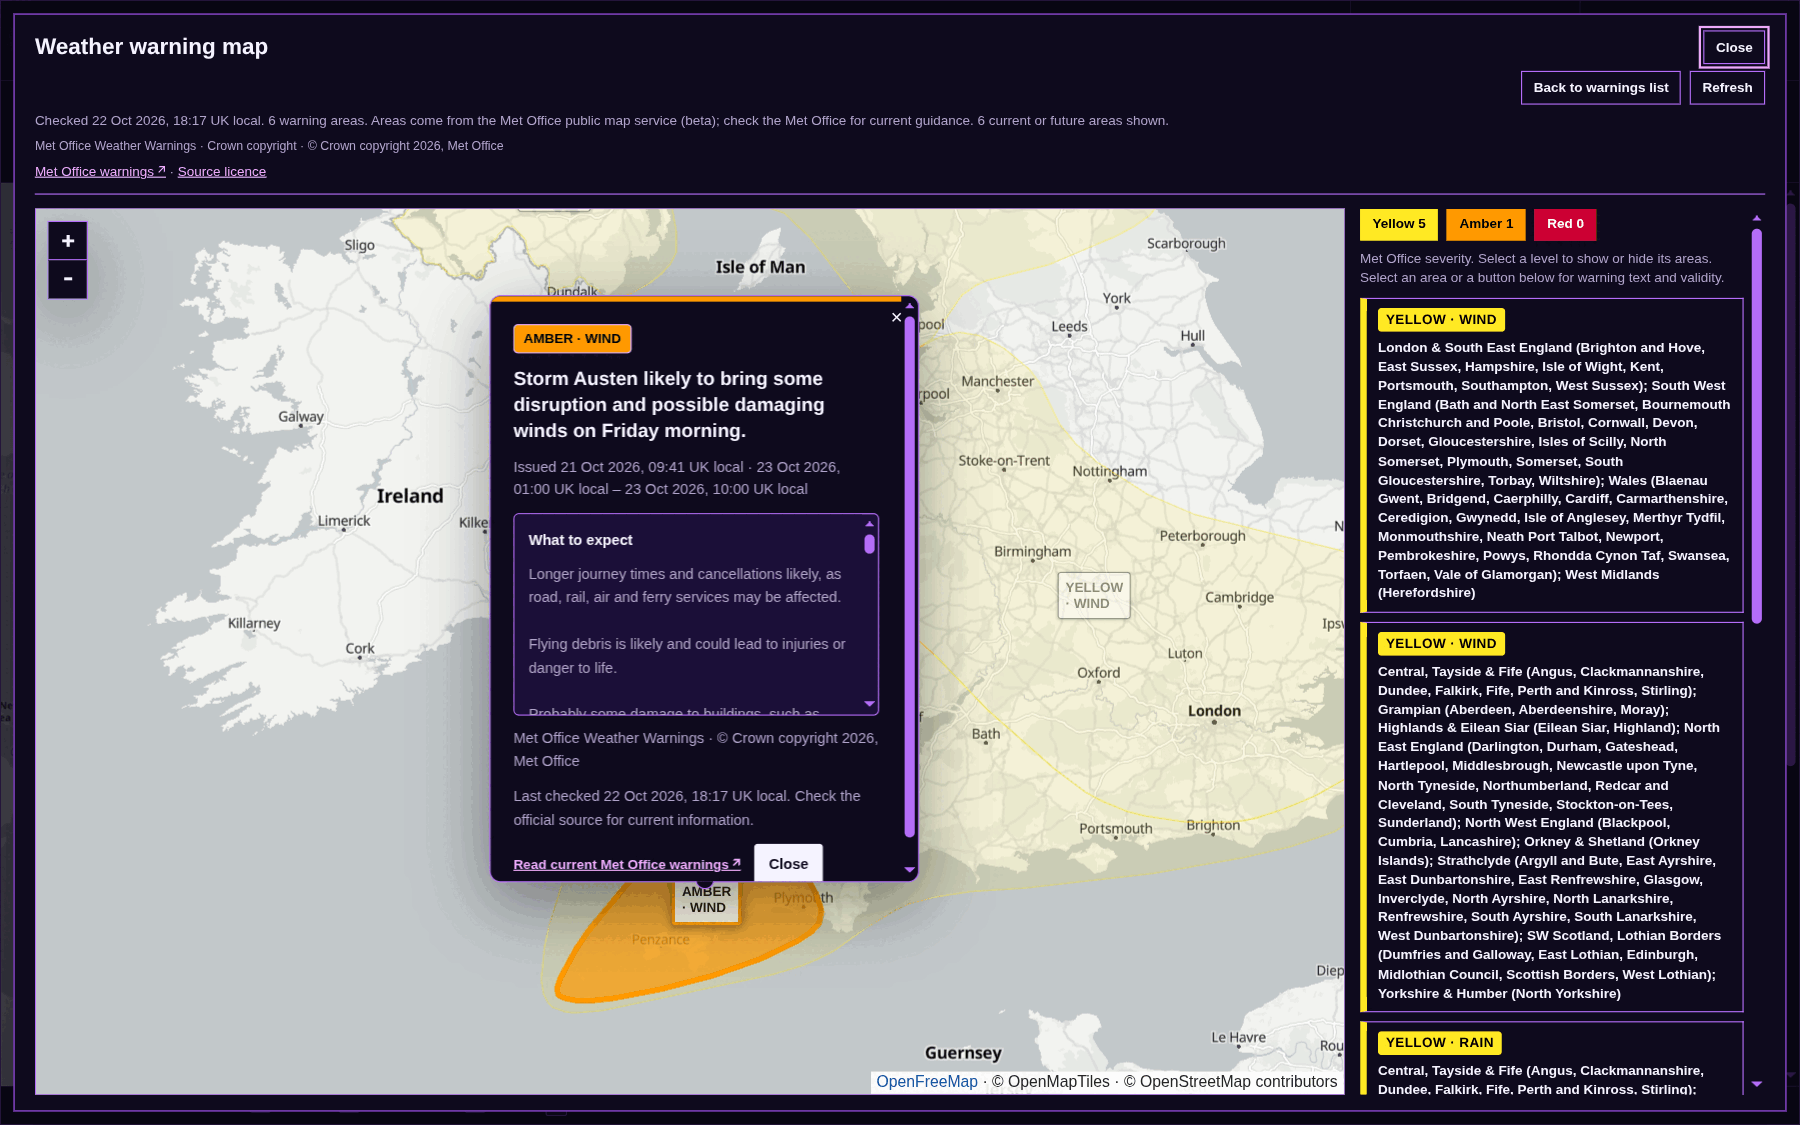
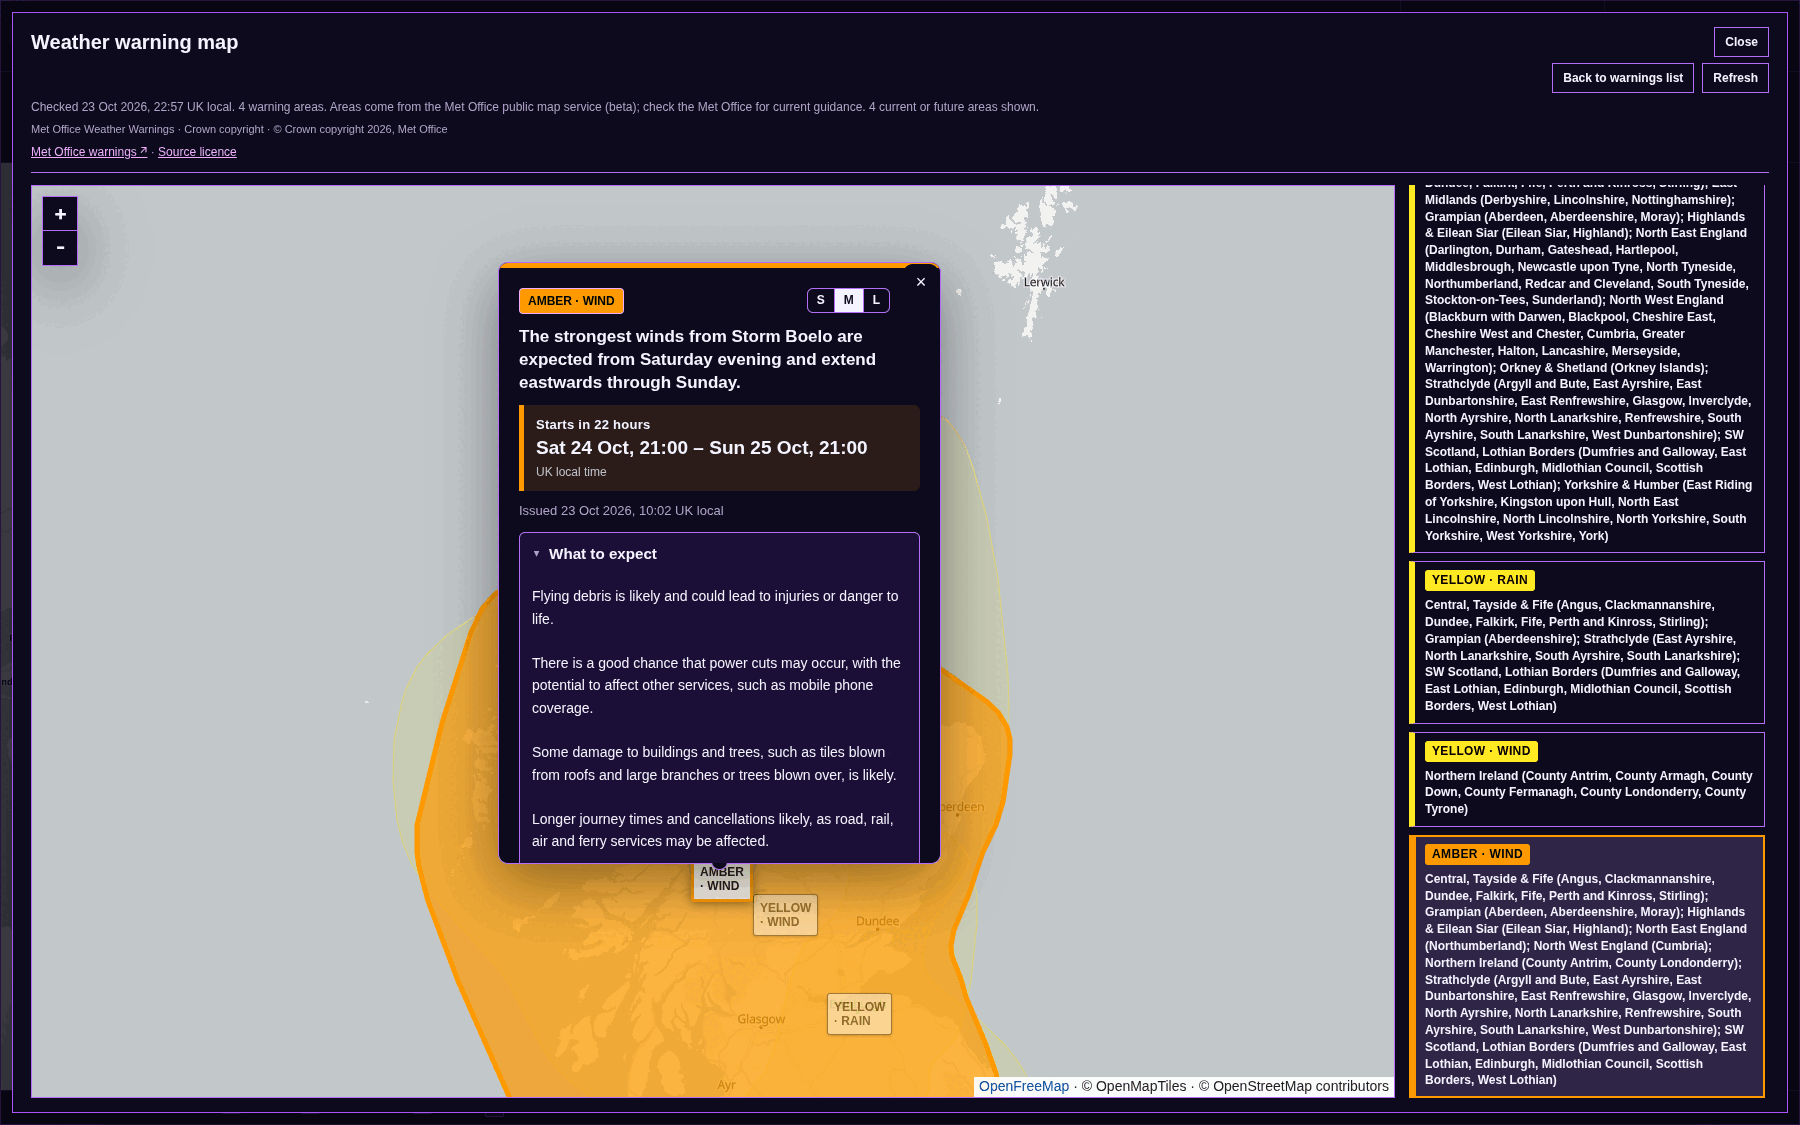
Make warning popups sizeable and easier to read (1.16.0) (#35)
Warning-map popups gain S, M and L size buttons. The choice applies to
every warning popup, resizes an open popup in place and is remembered.
The popup is now the only scroll area: "What to expect" (open) and
"Further details" (folded) are collapsible sections split into
paragraphs, replacing the small scroll box inside the scrolling popup.

README and warnings-guide screenshots are retaken: the warning map with
the new popup on the amber Storm Boelo warning, and Appearance showing
the light or dark choice.

diff --git a/client/warning-map.js b/client/warning-map.js
@@ -37,13 +37,32 @@
     let map=null,layer=null,timer=null,signature='',updates=[],highlighted=null,pinned=null,pending=null;const levels=new Set(Object.keys(colours));const features=new Map();
     const source=C.getSource(ID),ctrl=new globalThis.StormtraceWarnings.WarningController({id:ID,endpoint:'/api/hazards?source='+ID,interval:source.expectedUpdateInterval,validate:valid,onChange:render});
     $('warningMapAttribution').textContent=source.attribution;
+    // Popup size is the viewer's choice and is remembered. Content scrolls in one place:
+    // the popup itself, with collapsible sections rather than a scroll box inside it.
+    const SIZES={small:{label:'S',name:'Small',width:320},medium:{label:'M',name:'Medium',width:440},large:{label:'L',name:'Large',width:620}},SIZE_KEY='stormtrace:warning-popup-size',sizeButtons=new Set();
+    const storage=()=>globalThis.StormtracePlatform?.settingsStorage;
+    let popupSize=(()=>{try{const v=storage()?.getItem(SIZE_KEY);return Object.hasOwn(SIZES,v)?v:'medium';}catch{return 'medium';}})();
+    function sizeOptions(){const width=SIZES[popupSize].width;return {minWidth:width,maxWidth:width};}
+    function applySize(popup){if(!popup)return;Object.assign(popup.options,sizeOptions());const el=popup.getElement?.();if(el)el.dataset.size=popupSize;if(popup.isOpen?.())popup.update();}
+    function setPopupSize(size){
+      if(!Object.hasOwn(SIZES,size))return;popupSize=size;try{storage()?.setItem(SIZE_KEY,size);}catch{/* the choice still applies this session */}
+      for(const button of sizeButtons)button.setAttribute('aria-pressed',String(button.dataset.popupSize===size));
+      for(const [,geo] of features)applySize(geo.getPopup?.());
+    }
+    function section(parent,title,value,open){
+      const d=document.createElement('details');d.className='warning-popup-section';d.open=open;parent.append(d);
+      UI.text(d,'summary',title);for(const part of String(value||'').split(/\n\s*\n/).map(s=>s.trim()).filter(Boolean))UI.text(d,'p',part);return d;
+    }
     function popup(r) {
       const p=r.domainPayload,n=document.createElement('section');n.className='flood-map-card warning-area-card';n.style.borderTopColor=colours[p.badge];
-      const badge=UI.text(n,'span',p.badge+' · '+p.title,'flood-map-badge');badge.style.background=colours[p.badge];badge.style.color=p.badge==='RED'?'#fff':'#000';
+      const head=UI.text(n,'div','','warning-popup-head');
+      const badge=UI.text(head,'span',p.badge+' · '+p.title,'flood-map-badge');badge.style.background=colours[p.badge];badge.style.color=p.badge==='RED'?'#fff':'#000';
+      const sizes=UI.text(head,'div','','warning-popup-size');sizes.setAttribute('role','group');sizes.setAttribute('aria-label','Popup size');
+      for(const [key,size] of Object.entries(SIZES)){const b=UI.text(sizes,'button',size.label,'');b.type='button';b.dataset.popupSize=key;b.title=size.name+' popup';b.setAttribute('aria-label',size.name+' popup');b.setAttribute('aria-pressed',String(key===popupSize));b.addEventListener('click',()=>setPopupSize(key));sizeButtons.add(b);}
       // NSWWS presentation requires UK-local times regardless of the viewer's time preference.
       UI.text(n,'h3',p.headline,'flood-map-title');UI.validity(n,r.validFrom,r.validTo,ctrl.now()).style.setProperty('--warning-colour',colours[p.badge]);UI.text(n,'p',`Issued ${UI.fixedUkDate(r.observedAt)}`,'flood-map-time');
-      const body=UI.text(n,'div','','flood-map-message');body.tabIndex=0;
-      UI.text(body,'h4','What to expect');UI.text(body,'p',p.whatToExpect);UI.text(body,'h4','Further details');UI.text(body,'p',p.body);for(const d of p.details)UI.text(body,'p',d);
+      section(n,'What to expect',p.whatToExpect,true);
+      const more=section(n,'Further details',p.body,false);for(const d of p.details)UI.text(more,'p',d);
       UI.text(n,'p',`Met Office Weather Warnings · © Crown copyright ${new Date(r.observedAt).getUTCFullYear()}, Met Office`,'flood-map-attribution');updates.push(UI.popupHealth(n,ctrl.state.health,ctrl.state.cached,UI.fixedUkDate));
       const link=UI.text(n,'a','Read current Met Office warnings ↗','flood-map-link');link.href=p.url;link.target='_blank';link.rel='noopener noreferrer';
       const close=UI.text(n,'button','Close','mini-button');close.type='button';close.addEventListener('click',()=>map.closePopup());return n;
@@ -82,7 +101,7 @@
       if(!map)return;
       if(next===signature){focusPending(target,s);return;}
       signature=next;updates=[];features.clear();layer.clearLayers();
-      for(const r of records){const p=r.domainPayload,geo=globalThis.L.geoJSON(r.geometry,{style:{color:colours[p.badge],fillColor:colours[p.badge],fillOpacity:.4,weight:2}});geo.bindTooltip(p.badge+' · '+p.title,{permanent:true,direction:'center',className:'warning-area-label'});geo.bindPopup(popup(r),UI.popupOptions({minWidth:260}));geo.on('mouseover',()=>highlight(r.id)).on('mouseout',()=>highlight(null)).on('popupclose',()=>{if(pinned===r.id){pinned=null;highlight(null);}});layer.addLayer(geo);features.set(r.id,geo);}
+      for(const r of records){const p=r.domainPayload,geo=globalThis.L.geoJSON(r.geometry,{style:{color:colours[p.badge],fillColor:colours[p.badge],fillOpacity:.4,weight:2}});geo.bindTooltip(p.badge+' · '+p.title,{permanent:true,direction:'center',className:'warning-area-label'});geo.bindPopup(popup(r),UI.popupOptions({className:'hazard-popup flood-map-popup warning-area-popup',...sizeOptions()}));geo.on('popupopen',e=>applySize(e.popup));geo.on('mouseover',()=>highlight(r.id)).on('mouseout',()=>highlight(null)).on('popupclose',()=>{if(pinned===r.id){pinned=null;highlight(null);}});layer.addLayer(geo);features.set(r.id,geo);}
       UI.keyed($('warningMapList'),records,(parent,r)=>{
         const p=r.domainPayload,button=UI.text(parent,'button','','mini-button warning-area-button');button.type='button';button.dataset.warningId=r.id;button.style.setProperty('--warning-colour',colours[p.badge]);
         const badge=UI.text(button,'span',p.badge+' · '+p.title,'warning-area-badge');badge.style.background=colours[p.badge];badge.style.color=p.badge==='RED'?'#fff':'#000';

diff --git a/tests/warning-map.test.js b/tests/warning-map.test.js
@@ -34,7 +34,9 @@ test('warning list entries carry official colours, highlight their map area and 
   const records = [warning('y', 'YELLOW', square(-6, 49, -2, 52)), warning('r', 'RED', square(-5, 50, -3, 51))];
   const areas = [];
   const chips = ['YELLOW', 'AMBER', 'RED'].map((level) => { const chip = new Element('button'); chip.className = 'severity-chip'; chip.dataset.level = level; get('warningMapDialog').append(chip); return chip; });
-  const old = { document: globalThis.document, fetch: globalThis.fetch, L: globalThis.L };
+  const old = { document: globalThis.document, fetch: globalThis.fetch, L: globalThis.L, StormtracePlatform: globalThis.StormtracePlatform };
+  const stored = new Map([['stormtrace:warning-popup-size', 'small']]);
+  globalThis.StormtracePlatform = { settingsStorage: { getItem: (k) => stored.get(k) ?? null, setItem: (k, v) => stored.set(k, v) } };
   t.after(() => Object.assign(globalThis, old));
   globalThis.document = { hidden: false, getElementById: get, createElement: (tag) => new Element(tag), addEventListener() {} };
   globalThis.fetch = async function () { return { ok: true, json: async () => ({ configured: true, records, observations: [], health: { ...C.health(300000), available: true, lastSuccessfulFetch: now } }) }; };
@@ -47,7 +49,8 @@ test('warning list entries carry official colours, highlight their map area and 
     geoJSON(geometry, { style }) {
       const label = new Element(); label.rect = { left: 0, right: 120, top: 0, bottom: 24 };
       const area = { geometry, popupOpen: false, getBounds: () => geometry.coordinates[0], openPopup() { this.popupOpen = true; }, style: { ...style }, options: { style }, label, front: 0, events: {}, setStyle(next) { Object.assign(this.style, next); }, bringToFront() { this.front++; }, getTooltip: () => ({ getElement: () => label }),
-        bindTooltip() { return this; }, bindPopup() { return this; }, on(name, fn) { this.events[name] = fn; return this; } };
+        bindTooltip() { return this; }, bindPopup(node, options) { this.popupNode = node; this.popup = { options: { ...options }, updates: 0, element: { dataset: {} }, open: false, isOpen() { return this.open; }, update() { this.updates++; }, getElement() { return this.element; } }; return this; },
+        getPopup() { return this.popup; }, on(name, fn) { this.events[name] = fn; return this; } };
       areas.push(area); return area;
     },
   };
@@ -64,6 +67,21 @@ test('warning list entries carry official colours, highlight their map area and 
   assert.equal(buttons[1].children[1].textContent, 'Kent');
 
   const [yellow, red] = areas;
+  // One scroll area: collapsible sections instead of a scroll box, with the remembered size.
+  const all = (node, out = []) => { for (const c of node.children || []) { out.push(c); all(c, out); } return out; };
+  const nodes = all(red.popupNode), sections = nodes.filter((c) => c.tag === 'details');
+  assert.deepEqual(sections.map((d) => [d.children[0].textContent, d.open]), [['What to expect', true], ['Further details', false]]);
+  assert.ok(!nodes.some((c) => c.className === 'flood-map-message'), 'no nested scroll box');
+  assert.deepEqual([red.popup.options.minWidth, red.popup.options.maxWidth], [320, 320]);
+  red.events.popupopen({ popup: red.popup }); assert.equal(red.popup.element.dataset.size, 'small');
+  const large = nodes.find((c) => c.dataset?.popupSize === 'large');
+  assert.equal(large.attributes['aria-label'], 'Large popup');
+  red.popup.open = true; large.fire('click');
+  assert.equal(stored.get('stormtrace:warning-popup-size'), 'large');
+  assert.deepEqual([red.popup.options.maxWidth, yellow.popup.options.maxWidth], [620, 620], 'every warning popup follows the choice');
+  assert.equal(red.popup.updates, 1, 'an open popup resizes in place'); assert.equal(yellow.popup.updates, 0);
+  assert.equal(large.attributes['aria-pressed'], 'true');
+  assert.equal(all(yellow.popupNode).find((c) => c.dataset?.popupSize === 'small').attributes['aria-pressed'], 'false');
   // Overlapping centre labels: the most severe shows, the focused one wins while emphasised.
   assert.ok(yellow.label.classes.has('collided')); assert.ok(!red.label.classes.has('collided'));
   buttons[0].fire('mouseenter');

diff --git a/styles.css b/styles.css
@@ -488,8 +488,23 @@ dialog > .hazard-dialog-card { width: 100%; height: 100%; max-height: none; padd
 #warningAreaMap .leaflet-control-zoom { border: 1px solid var(--popup-line); border-radius: 0; box-shadow: var(--shadow); }
 #warningAreaMap .leaflet-control-zoom a { width: 34px; height: 34px; line-height: 34px; border-radius: 0; background: var(--popup-bg); color: var(--popup-text); border-color: var(--popup-line); }
 #warningAreaMap .leaflet-control-zoom a:hover { background: var(--popup-surface); }
-#warningAreaMap .leaflet-popup-content { max-width: min(380px, calc(100vw - 92px)); }
-.warning-area-card .flood-map-message { max-height: min(180px, 22vh); }
+#warningAreaMap .leaflet-popup-content { max-width: calc(100vw - 92px); }
+/* Warning popups: the viewer picks Small, Medium or Large; the popup is the only scroll area. */
+#warningAreaMap .leaflet-popup[data-size="small"] .leaflet-popup-content { max-height: min(360px, calc(100dvh - 300px)); }
+#warningAreaMap .leaflet-popup[data-size="medium"] .leaflet-popup-content { max-height: min(600px, calc(100dvh - 260px)); }
+#warningAreaMap .leaflet-popup[data-size="large"] .leaflet-popup-content { max-height: calc(100dvh - 200px); }
+.warning-popup-head { display: flex; align-items: center; justify-content: space-between; gap: 10px; margin-right: 30px; }
+.warning-popup-size { display: inline-flex; border: 1px solid var(--popup-line); border-radius: 6px; overflow: hidden; }
+.hazard-popup .warning-popup-size button { padding: 3px 9px; border: 0; border-radius: 0; background: transparent; color: var(--popup-text); font-size: 12px; font-weight: 700; }
+.hazard-popup .warning-popup-size button + button { border-left: 1px solid var(--popup-line); }
+.hazard-popup .warning-popup-size button[aria-pressed="true"] { background: var(--popup-text); color: var(--popup-bg); }
+.warning-popup-section { margin: 10px 0; border: 1px solid var(--popup-line); border-radius: 6px; background: var(--popup-surface); }
+.warning-popup-section > summary { display: flex; align-items: center; gap: 8px; padding: 10px 12px; cursor: pointer; font-weight: 700; color: var(--popup-text); list-style: none; }
+.warning-popup-section > summary::-webkit-details-marker { display: none; }
+.warning-popup-section > summary::before { content: "▸"; color: var(--popup-muted); }
+.warning-popup-section[open] > summary::before { content: "▾"; }
+.warning-popup-section > summary:hover { background: color-mix(in srgb, var(--popup-text) 6%, transparent); }
+.warning-popup-section > p { margin: 0; padding: 0 12px 12px; color: var(--popup-text); font-size: calc(14px * var(--reading-scale)); line-height: 1.6; }
 #warningAreaMap .leaflet-control-attribution { background: rgba(255,255,255,.92); color: #222; }
 #warningAreaMap .leaflet-control-attribution a { color: #0b4f9e; }
 .warning-area-label { background: #fff; color: #111; border: 1px solid #333; font: 600 12px system-ui, sans-serif; white-space: normal; }
@@ -509,8 +524,6 @@ dialog > .hazard-dialog-card { width: 100%; height: 100%; max-height: none; padd
 .warning-area-button { display: grid; gap: 6px; border-left: 6px solid var(--warning-colour); }
 .warning-area-button.active { border-color: var(--warning-colour); background: var(--surface-3); box-shadow: inset 0 0 0 1px var(--warning-colour); }
 .warning-area-badge { justify-self: start; padding: 2px 7px; border-radius: 3px; font-weight: 800; letter-spacing: .03em; }
-.warning-area-card .flood-map-message { max-height: min(180px, 30vh); }
-.warning-area-card .flood-map-message h4 { margin: 0 0 6px; font-size: 13px; }
 
 /* About, shortcuts and appearance dialogs. */
 .about-dialog-card { width: min(480px, calc(100vw - 32px)); gap: 12px; }

diff --git a/docs/warnings.md b/docs/warnings.md
@@ -61,9 +61,9 @@ This is not a complete archive. The Met Office keeps change records for about 24
 
 Choose **Warning map** inside Weather warnings to see current warning areas on a dedicated UK map. It needs no key.
 
-![The UK warning map focused on an amber wind warning, with severity filters and a colour-coded list of areas](screenshots/warning-map.png)
+![The UK warning map with an amber Storm Boelo wind warning open: when it starts, its period in UK local time, popup size buttons and a collapsible What to expect section, beside severity filters and a colour-coded list of areas](screenshots/warning-map.png)
 
-The map uses a public, Met Office-linked Esri beta service under the NSWWS Open Licence. The Met Office does not support that service's API, and it can lag behind the official website. Expired areas are left out, and future warnings stay visible. Select an area or its label to open the full warning; its popup leads with the same validity period. Each entry in the side list carries its official warning colour; hover over or focus an entry to highlight its area on the map, and hover over an area to highlight its entry. Select the Yellow, Amber or Red key to hide or show that level on the map and in the list; each shows how many areas it has.
+The map uses a public, Met Office-linked Esri beta service under the NSWWS Open Licence. The Met Office does not support that service's API, and it can lag behind the official website. Expired areas are left out, and future warnings stay visible. Select an area or its label to open the full warning; its popup leads with the same validity period. **S**, **M** and **L** set the popup size, and the choice is remembered. The popup scrolls as one, with **What to expect** open and **Further details** folded away until you need it. Each entry in the side list carries its official warning colour; hover over or focus an entry to highlight its area on the map, and hover over an area to highlight its entry. Select the Yellow, Amber or Red key to hide or show that level on the map and in the list; each shows how many areas it has.
 
 Warning areas are kept separate from lightning, radar and other weather layers, as the Met Office style guide requires, so they never appear on the main map.
 

diff --git a/README.md b/README.md
@@ -87,7 +87,7 @@ The **Hazards** buttons along the top open each view. A small dot on each button
 <table>
   <tr>
     <td width="50%"><img src="docs/screenshots/weather-warnings.png" alt="Met Office weather warnings, including an amber wind warning, each with a Show on map button"></td>
-    <td width="50%"><img src="docs/screenshots/warning-map.png" alt="The UK warning map focused on an amber wind warning, with severity filters and a colour-coded list of areas"></td>
+    <td width="50%"><img src="docs/screenshots/warning-map.png" alt="The UK warning map with an amber Storm Boelo wind warning open: when it starts, its period in UK local time, popup size buttons and a collapsible What to expect section, beside severity filters and a colour-coded list of areas"></td>
   </tr>
   <tr>
     <td align="center"><sub>UK warnings in their official colours</sub></td>
@@ -111,7 +111,7 @@ Use **Layers** in the top-left corner of the map to add flood areas or earthquak
 
 Stormtrace follows your Omarchy theme automatically, or you can pick your own colours. Prefer light or dark regardless of your theme? Choose **Light** or **Dark** under **Light or dark**: Stormtrace builds a matching version of your Omarchy theme that keeps its accent colours. **Appearance** also has larger text sizes, a choice of UK or local time, and map brightness and shading. Strike-age colours come from your theme, but Stormtrace switches to a fixed yellow, orange and crimson set if a theme's colours are too close to tell apart. Official warning colours never change, so they always mean the same thing.
 
-![The Appearance panel with text, time, colour and map settings](docs/screenshots/appearance-controls.png)
+![The Appearance panel with Omarchy or custom colours, the Light or dark choice, the palette and map settings](docs/screenshots/appearance-controls.png)
 
 <sub>Screenshots show live data captured on 22 and 23 October 2026.</sub>
 
